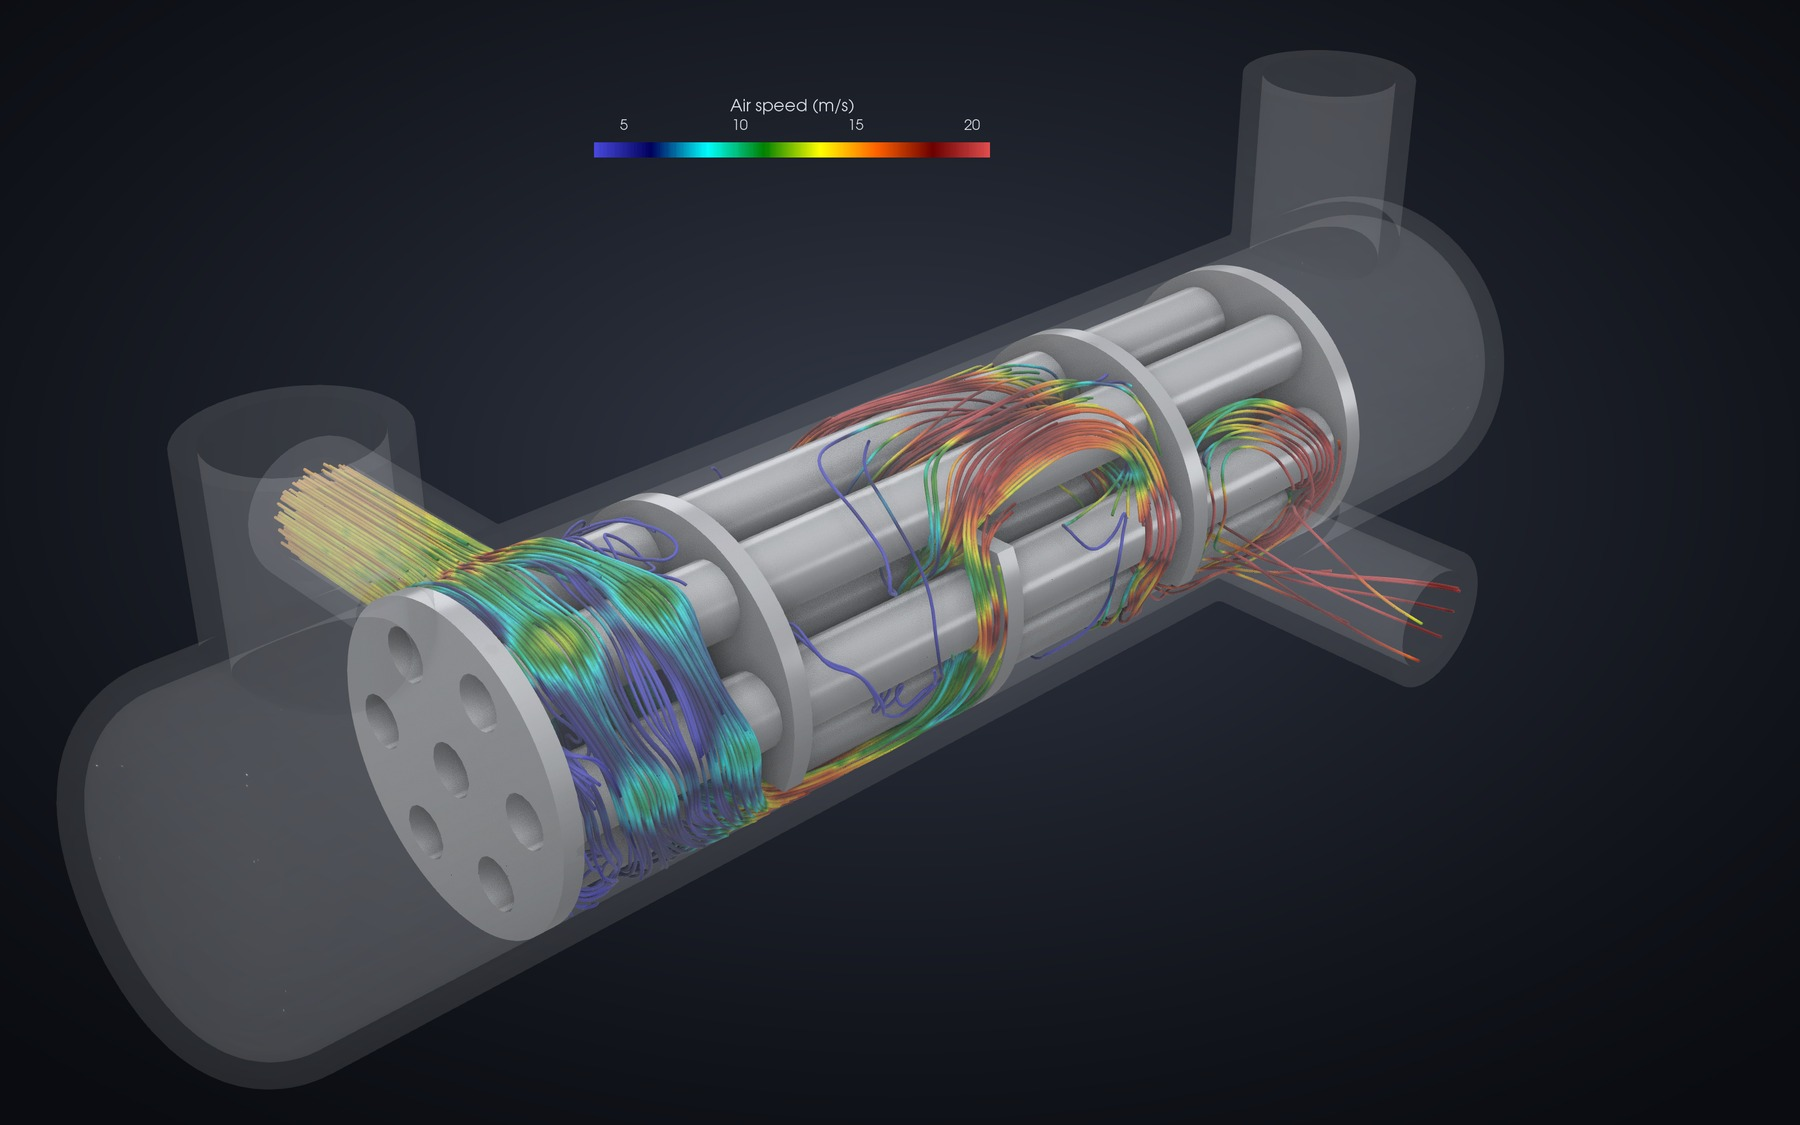
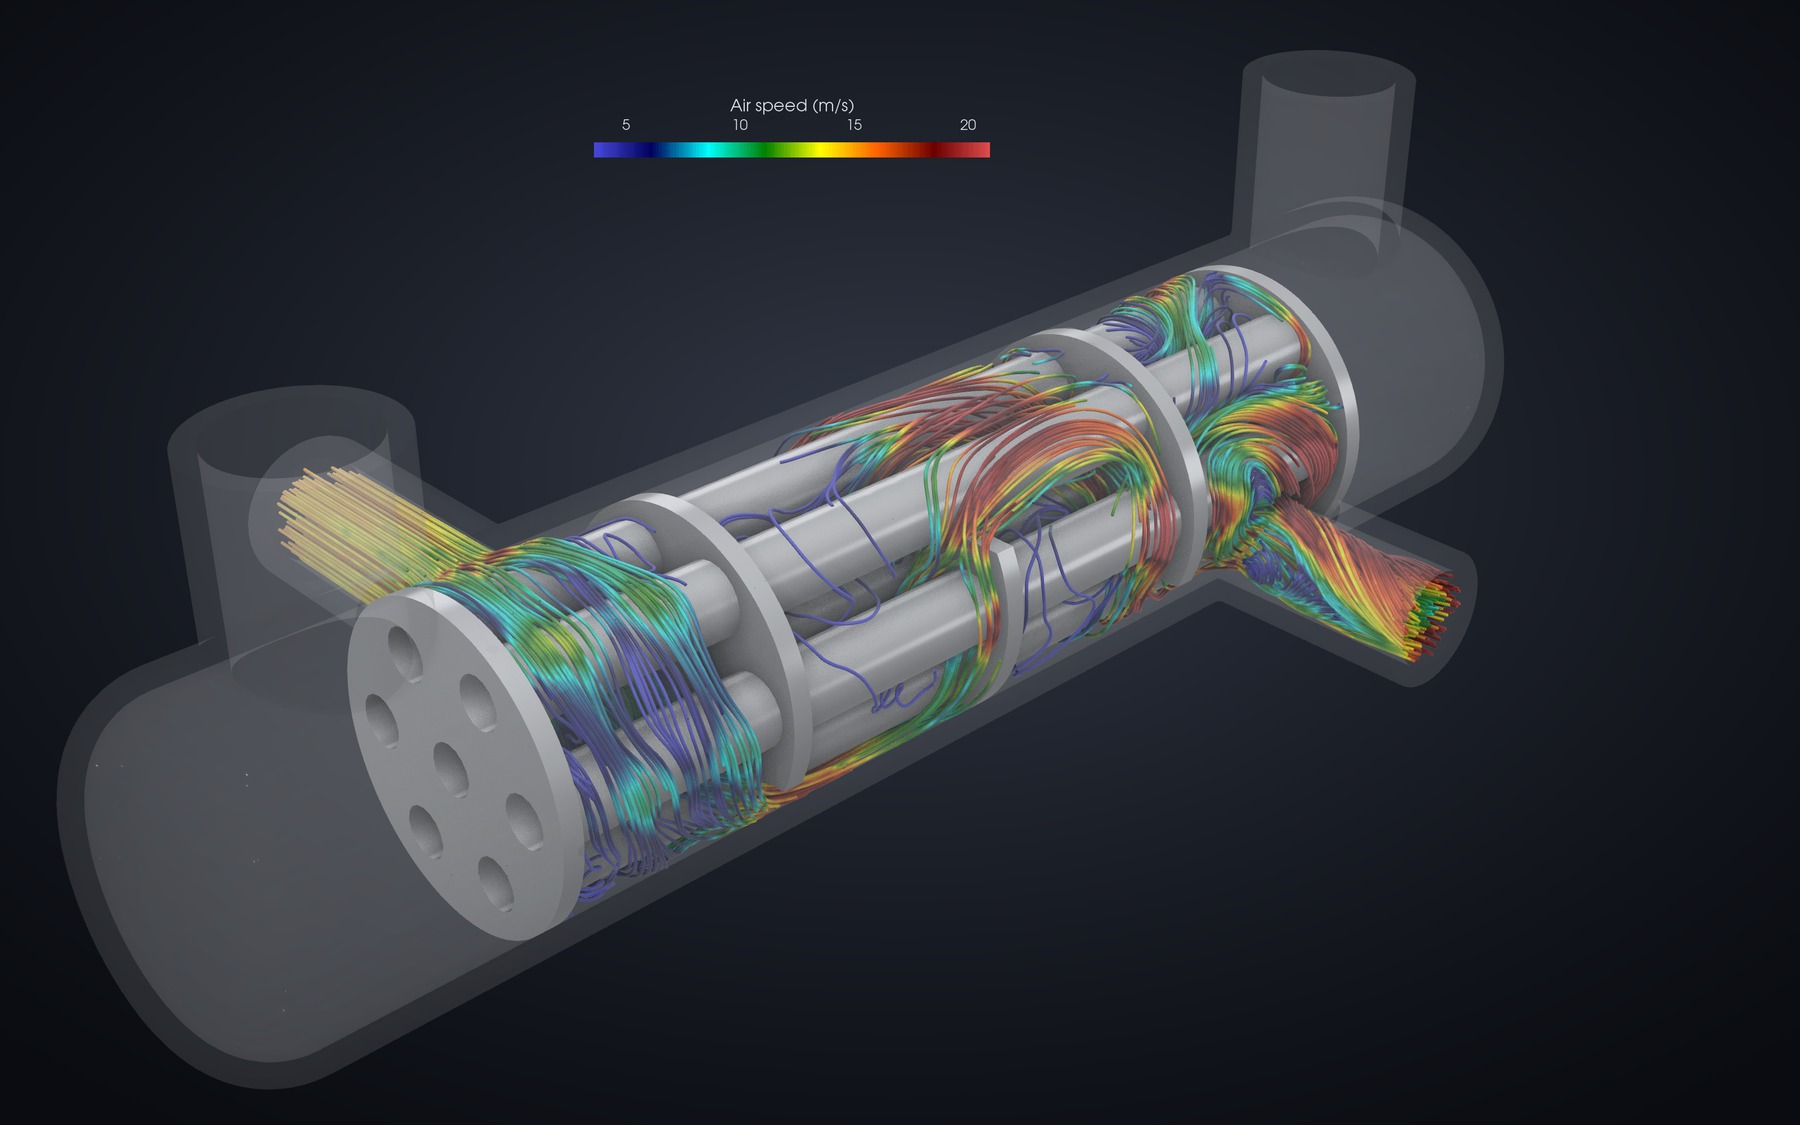
docs: heat exchanger renderings with streamlines from inlet and outlet (#287)
* docs: heat exchanger renderings with streamlines from inlet and outlet

The hero and the air path seed half their streamlines in the air inlet
nozzle (traced forwards) and half in the outlet nozzle (traced
backwards), so the lines cover the whole path from inlet to outlet;
seeded at the inlet alone, only a few reached the outlet. The README
teaser is rebuilt from the two images; captions and recipe updated.

* changelog: 287 heat exchanger streamlines

Claude-Session: https://claude.ai/code/session_012imjwpFZR3wQAg7Rwe3t8f

---------

diff --git a/examples/applications/shell_tube_hx/render_images.py b/examples/applications/shell_tube_hx/render_images.py
@@ -306,16 +306,26 @@ def save(v, name, size, dark, crop=True):
 
 
 # ---------------------------------------------------------------- streamlines
-def air_streamlines(n_seeds, radius=13.0, x0=-85.0):
-    """Streamlines from a disc of seeds just inside the air inlet nozzle."""
-    seeds = PointSource(Center=[x0, 28.0, 23.0], Radius=radius, NumberOfPoints=n_seeds)
-    st = StreamTracerWithCustomSource(Input=air, SeedSource=seeds)
-    st.Vectors = ["POINTS", "U"]
-    st.IntegrationDirection = "FORWARD"
-    st.MaximumStreamlineLength = 3000.0
-    st.IntegratorType = "Runge-Kutta 4-5"
-    st.MaximumSteps = 20000
-    return st
+def air_streamlines(n_seeds, radius=13.0, x0=85.0):
+    """Streamlines through the shell side: half the seeds on a disc just
+    inside the air inlet nozzle (x = -100 mm), integrated forward, half just
+    inside the outlet nozzle (x = +100 mm), integrated backward. Seeded at the
+    inlet alone, only a few lines find their way around all the baffles to
+    the outlet; the backward lines fill the path from the outlet end, so the
+    picture covers the whole way from inlet to outlet."""
+    from paraview.simple import AppendGeometry
+    lines = []
+    for centre, direction in (([-x0, 28.0, 23.0], "FORWARD"),     # shell_nozzle_front
+                              ([x0, 266.0, -23.0], "BACKWARD")):  # shell_nozzle_rear
+        seeds = PointSource(Center=centre, Radius=radius, NumberOfPoints=n_seeds // 2)
+        st = StreamTracerWithCustomSource(Input=air, SeedSource=seeds)
+        st.Vectors = ["POINTS", "U"]
+        st.IntegrationDirection = direction
+        st.MaximumStreamlineLength = 3000.0
+        st.IntegratorType = "Runge-Kutta 4-5"
+        st.MaximumSteps = 20000
+        lines.append(st)
+    return AppendGeometry(Input=lines)
 
 
 # the hero and the air path share one camera and one size, so that the
@@ -423,7 +433,7 @@ d.DiffuseColor = [0.85, 0.9, 1.0]
 d.Opacity = 0.13
 d = Show(surface(steel_bundle), v)
 steel(d, rough=0.25, aniso=0.3)
-st3 = air_streamlines(1400, radius=14.0, x0=-97.0)
+st3 = air_streamlines(1400, radius=14.0, x0=97.0)
 tb3 = Tube(Input=st3, Radius=0.45, NumberofSides=8)
 sp3 = sp_rng  # the range of the hero: the bars of the two must match in the teaser
 d = Show(tb3, v)

diff --git a/docs/applications/heat-exchangers.md b/docs/applications/heat-exchangers.md
@@ -195,12 +195,15 @@ the water has its own temperature range.
 <img src="../figures/applications/hx_render_hero.jpg" alt="The exchanger with a quarter of the steel housing cut away on a dark background: the tube bundle coloured by the steel temperature from 21 to 25 °C, the tubes cool, the baffles and the tubesheet rims warmest; air streamlines coloured by speed from 5 to 20 m/s wind through the baffle windows" width="800" height="500">
 
 *The steel housing with a quarter cut away; the bundle coloured by the
-steel temperature, the air streamlines from the inlet nozzle by speed.*
+steel temperature, the air streamlines by speed (seeded in the inlet
+nozzle and, traced backwards, in the outlet nozzle).*
 
-<img src="../figures/applications/hx_render_airpath.jpg" alt="The housing as faint glass, the tubes, tubesheets and baffles in steel, and 1 400 streamlines from the inlet nozzle coloured by speed: the jet spreads over the first compartment, passes the baffle windows at up to 20 m/s alternately above and below and leaves through the outlet nozzle" width="800" height="500">
+<img src="../figures/applications/hx_render_airpath.jpg" alt="The housing as faint glass, the tubes, tubesheets and baffles in steel, and 1 400 streamlines coloured by speed, half traced forwards from the inlet nozzle and half backwards from the outlet nozzle: the jet spreads over the first compartment, passes the baffle windows at up to 20 m/s alternately above and below and leaves through the outlet nozzle" width="800" height="500">
 
-*The air path: 1 400 streamlines seeded across the inlet nozzle wind
-around the three baffles to the outlet.*
+*The air path: 1 400 streamlines wind around the three baffles from inlet
+to outlet. Half are seeded in the inlet nozzle and traced forwards, half
+in the outlet nozzle and traced backwards, so the whole path is covered:
+seeded at the inlet alone, only a few lines reach the outlet.*
 
 <img src="../figures/applications/hx_render_cut.jpg" alt="Lengthwise section at x = 0 on a white background: air temperature from 80 to 270 °C hot in the first compartment and coolest in the last, the water in the end chambers and the centre tube on its own range of 19.7 to 20.5 °C, the steel from 21 to 26 °C, thin outlines on the borders of the zones" width="800" height="352">
 

diff --git a/docs/recipes/applications.md b/docs/recipes/applications.md
@@ -91,5 +91,5 @@ The renderings of the application page and the README come from ParaView (6.2, i
     output/hx_counterflow/fields.vtkhdf docs/figures/applications assets/readme
 ```
 
-About 35 s on an iMac. It writes `hx_render_hero.jpg`, `hx_render_cut.jpg`, `hx_render_airpath.jpg` and `hx_render_baffle.jpg`, and with the third argument the README teaser `heat_exchanger_renderings.webp`, the hero and the air path cross-fading every 3.5 s (made by plain `python3`, whose Pillow needs WebP support). The steel is shaded as metal (physically based, metallic and roughness) under a studio environment map that the script draws itself; OSPRay path tracing is not used, because in ParaView 6.2 on macOS its path tracer loses the red channel. Each colour range is the 2nd to 98th percentile of what the picture shows. Change the cameras at the end of each block (`CameraPosition`, `CameraFocalPoint`) for other views and the seed count of `air_streamlines` for more or fewer streamlines.
+About 35 s on an iMac. It writes `hx_render_hero.jpg`, `hx_render_cut.jpg`, `hx_render_airpath.jpg` and `hx_render_baffle.jpg`, and with the third argument the README teaser `heat_exchanger_renderings.webp`, the hero and the air path cross-fading every 3.5 s (made by plain `python3`, whose Pillow needs WebP support). The steel is shaded as metal (physically based, metallic and roughness) under a studio environment map that the script draws itself; OSPRay path tracing is not used, because in ParaView 6.2 on macOS its path tracer loses the red channel. Each colour range is the 2nd to 98th percentile of what the picture shows. Change the cameras at the end of each block (`CameraPosition`, `CameraFocalPoint`) for other views and the seed count of `air_streamlines` for more or fewer streamlines; half of the seeds sit in the inlet nozzle (traced forwards), half in the outlet nozzle (traced backwards), so the lines cover the whole air path.
 

diff --git a/changelog.d/287-readme-hx-streamlines.md b/changelog.d/287-readme-hx-streamlines.md
@@ -1,0 +1,1 @@
+- README and heat exchanger application renderings: air streamlines seeded at both the inlet (forward) and outlet (backward) so they cover the whole path.
